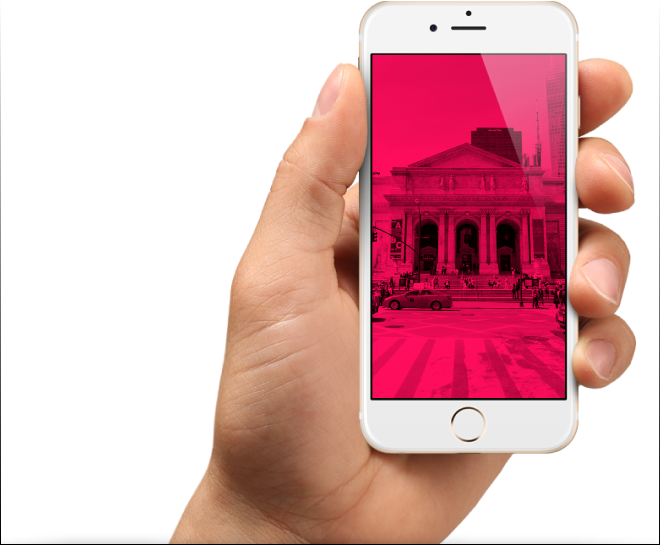
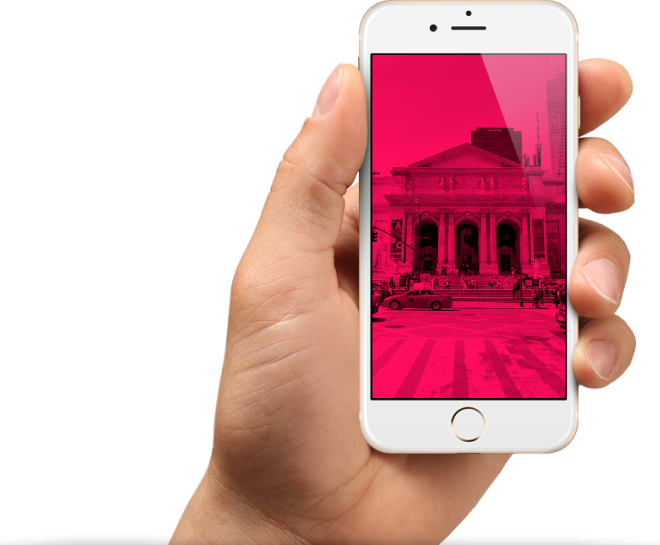
исправила фон для download-app

Changed region(s): [[0.0, 0.9982, 1.0, 1.0]]

diff --git a/source/less/blocks/download-app.less b/source/less/blocks/download-app.less
@@ -1,127 +1,20 @@
 .download-app {
-  /*background-image: url("../img/back-mobile.png");
-  background-image: url("../img/hand-mobile.png");
-  background-repeat: no-repeat;
-  background-color: #1e394a;*/
   min-height: 462px;
-  outline: 3px solid rgba(236, 82, 198, 0.7);
-  outline-offset: -3px;
-  background: url(../img/hand-mobile.png) no-repeat center 176px, url(../img/back-mobile.png) no-repeat 100%;
-  background-color: #1e394a;
+  background: url("../img/hand-mobile.png") no-repeat bottom left,
+              url("../img/back-mobile.png") no-repeat;
+  background-size: auto, cover;
 
-  @media (min-width: @tablet-width) and (max-width: @desktop-width) {
-    background: url(../img/hand-tablet.png) no-repeat center 176px, url(../img/back-tablet.png) no-repeat;
-    min-height: 729px;
-    width: 100%;
-    background-color: #1e394a;
+  @media (min-width: @tablet-width) {
+    min-height: 730px;
+    background: url("../img/hand-tablet.png") no-repeat bottom left,
+              url("../img/back-tablet.png") no-repeat;
+    background-size: auto, cover;
   }
 
   @media (min-width: @desktop-width) {
-    background: url(../img/hand-desktop.png) no-repeat center bottom, url(../img/back-desktop.png) no-repeat;
-    width: 100%;
     min-height: 853px;
-  }
-}
-
-.download-app__wrapper {
-  width: 280px;
-  margin: 0 auto;
-
-  @media (min-width: @tablet-width) {
-    min-width: 620px;
-  }
-
-  @media (min-width: @desktop-width) {
-    min-width: 940px;
-  }
-}
-
-.download-app__buttons {
-  @media (min-width: @mobile-width) and (max-width: @tablet-width) {
-    background-color: @download-app-background;
-    margin-top: 362px;
-  }
-
-  @media (min-width: @tablet-width) {
-    grid-row-start: 2;
-    grid-row-end: 3;
-  }
-}
-
-.download-app__slogan {
-  color: white;
-  text-align: center;
-
-  @media (min-width: @tablet-width) {
-    font-size: 40px;
-    font-weight: 300;
-    line-height: 48px;
-  }
-
-  @media (min-width: @desktop-width) {
-    font-size: 50px;
-    font-weight: 300;
-    line-height: 68.09px;
-  }
-}
-
-.download-app__wrapper a {
-  color: white;
-}
-
-.download-app__wrapper p {
-  color: white;
-}
-
-.download-app__wrapper {
-  display: flex;
-  flex-direction: column;
-
-  @media (min-width: @tablet-width) {
-    display: grid;
-    grid-template-columns: 1fr 1fr;
-    grid-template-rows: 1fr 1fr;
-  }
-}
-
-.hand-image-mobile {
-  @media (min-width: @tablet-width) {
-    display: none;
-  }
-
-  @media (min-width: @desktop-width) {
-    display: none;
-  }
-}
-
-.hand-image-tablet {
-  position: absolute;
-
-  @media (min-width: @mobile-width) {
-    display: none;
-  }
-
-  @media (min-width: @tablet-width) {
-    display: block;
-  }
-
-  @media (min-width: @desktop-width) {
-    display: none;
-  }
-}
-
-.hand-image-desktop {
-  position: absolute;
-
-  @media (min-width: @mobile-width) {
-    display: none;
-  }
-
-  @media (min-width: @tablet-width) {
-    display: none;
-  }
-
-  @media (min-width: @desktop-width) {
-    display: block;
+    background: url("../img/hand-desktop.png") no-repeat bottom right,
+              url("../img/back-desktop.png") no-repeat;
+    background-size: auto, cover;
   }
 }

diff --git a/source/less/blocks/advantages.less b/source/less/blocks/advantages.less
@@ -2,6 +2,7 @@
   outline: 3px solid rgba(0, 255, 0, 0.7);
   outline-offset: -3px;
   background-color: @advantages-background;
+  margin-top: 75px;
 }
 
 .advantages__wrapper {

diff --git a/source/less/blocks/page-header.less b/source/less/blocks/page-header.less
@@ -9,6 +9,7 @@
   margin: 0 auto;
   display: flex;
   flex-direction: column;
+  /*position: absolute;*/
 
   @media (min-width: @tablet-width) {
     min-width: 620px;

diff --git a/source/less/blocks/main-navigation.less b/source/less/blocks/main-navigation.less
@@ -4,6 +4,7 @@
   color: white;
   outline: 3px solid rgba(240, 213, 64, 0.7);
   outline-offset: -3px;
+  text-align: center;
 }
 
 .main-navigation ul {
